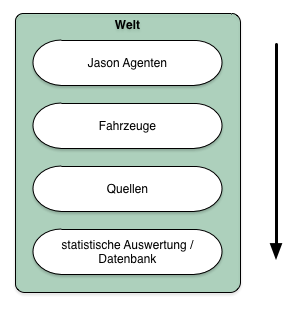
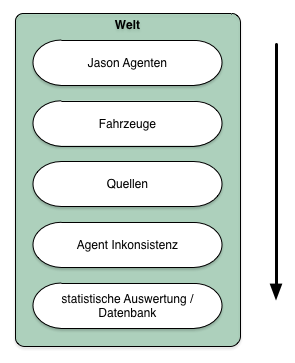
add translation / documentation

diff --git a/src/main/resources/web/documentation/user/en/program.md b/src/main/resources/web/documentation/user/en/program.md
@@ -1,0 +1,43 @@
+# Programfunctionality
+
+## System-Start
+
+The start if the program proceeds with different _stages_, which startup the different layers with its components. Each layer is a closed structure. The main
+startup part is proceed by the class _CBootstrap_, which is the centralized structure of the main events. A special feature is the preprocessing on the Java
+Runtime startup. The initial start of the program is definied by the class _CBoot_, which determinates the current Java version and vendor of the runtime.
+The startup is continued by the class _CMain_, which creates the whole program startup. The diagram shows the structure:
+
+![Startup](image/startup-diagram.png)
+
+
+### Start of the simulation environment
+
+The simulation environment ( _CSimulation_ with _CWorld_) is start every time. The simulation represent the core, which represents the main evaluation of
+all simulation objects. The world contains all objects, which are simulated with dependend data structures. The simulation core does not have a visual
+representation, because the simulation can be start without UI.
+
+### UI Start
+
+The UI usage is optional and will be loaded in dependency of the program commandline arguments. The UI consists of tabs within the Java application and the
+HTML representation. The tabs ( _Main_ and _OSM_ ) are internal Java components, which are processed directly by the simulation core. The view within the tab
+_Main_ shows the UI components in HTML of the user access. The default properties of the web server binding is set to the URL ```http://localhost:9876```. The
+URL can be changed by the commandline arguments, so the startup overwrite the default properties.
+
+
+## Configuration / Storing
+
+### Programparameter
+
+The program can use initial parameter, which affects the startup process. All parameters with a short description can be shown with the parameter ```--help```.
+
+
+### Storing
+
+The default location of the data is the home directory of the user with the subdirectory ```.mecsim```. Within this directory exists the structure:
+
+* the file```config.json``` contains all settings of the program
+* the directory ```graphs``` contains the graph data of the simulation ([GraphHopper](https://graphhopper.com/))
+* the directory ```jar``` can be used to store arbitrary [[JAR (file format)|JAR]], which are loaded automatically at startup e.g. database driver
+* the subdirectory ```mas``` contains all script file of agents
+* a [[Cache (computing)|cache]] of the map visualization is stored within the directory ```tile.openstreetmap.org```
+* own HTML documents can be stored within the directory ```www``` and the document-root file must be named ```index.htm```

diff --git a/src/main/resources/web/documentation/user/de/programm.md b/src/main/resources/web/documentation/user/de/programm.md
@@ -20,8 +20,8 @@ direkte visuelle Repräsentation, so dass die Simulation auch ohne UI gestartet 
 
 ### Start der UI
 
-Die UI ist optional und wir somit in Abhängigkeit der Programmübergabe-Parameter geladen. Die UI besteht einmal aus den Tabs innerhalb der Java Anwendung und
-der HTMl darstellung. Die Tabs ( _Main_ und _OSM_ ) sind die internen Java-Komponenten die direkt durch den Simulationskern angesprochen werden können. Die
+Die UI ist optional und wird somit in Abhängigkeit der Programmübergabe-Parameter geladen. Die UI besteht einmal aus den Tabs innerhalb der Java Anwendung und
+der HTMl Darstellung. Die Tabs ( _Main_ und _OSM_ ) sind die internen Java-Komponenten die direkt durch den Simulationskern angesprochen werden können. Die
 Darstellung innerhalb des Tabs _Main_ stellt für den Benutzer die Eingabemasken mittels HTML dar. Die Default-Einstellungen für das Binden des Webservers
 ist die URL ```http://localhost:9876``` vorgesehen. Über die Programmparameter kann diese Adresse beim Start überschrieben werden.
 
@@ -44,8 +44,3 @@ Der Defaultspeicherort der Daten liegt im Homeverzeichnis der Users im Unterverz
 * das Unterverzeichnis ```mas``` beinhaltet alle Scriptdateien der Agenten
 * als [[Cache]] der visuelle Kacheldarstellung wird das Verzeichnis ```tile.openstreetmap.org``` verwendet
 * um eigene HTML Inhalte abzulegen kann das Verzeichnis ```www``` benutzt werden, wobei die Dokument-Root-Datei ```index.htm``` lauten muss
-
-
-
-
-

diff --git a/src/main/resources/web/documentation/user/en/world.md b/src/main/resources/web/documentation/user/en/world.md
@@ -1,0 +1,35 @@
+# World
+
+## Layout
+
+The world is based on a _layer structure_ ([[manifold]]), so much that each layer is defined like an _autonomously structure_ ([[topological space]]).
+Each layer can contains simulation objects, which are run by the simulation core. All objects of a layer will be processed before the next layer is taken.
+The layer structure is ordered, which defines a deterministic ordering of evaluation. The diagram shows the structure:
+
+![World Structure](image/world.png)
+
+The world will be processed from top to bottom (lower index to higher index). The default behaviour of the evaluation process is first the _Jason Agents, cars,
+waypoints / sources, inconsistency_ and at the end _statistics evaluation with transfer to database_.
+
+
+## Traffic Model
+
+The simulation supports the [[Nagel–Schreckenberg model]] to simulation the traffic in two different characteristics:
+
+* an additional model, which defines individually acceleration- and decceleration at each car
+* an modified additional model, which processes cars, that are handle by agents, in this case, that the agent has got the full surveillance about the car
+(this model is set by default
+
+### Traffic Network Sampling
+
+
+
+
+### Time Sampling
+
+ 
+ 
+ 
+ 
+## Perception of [Jason Agenten](jason.md)
+ 

diff --git a/src/main/resources/web/documentation/user/de/welt.md b/src/main/resources/web/documentation/user/de/welt.md
@@ -5,12 +5,13 @@
 Die Welt ist als _Schichtstruktur_ ([[Mannigfaltigkeit]]) aufgebaut, so dass jede Schicht als _eigenständige Struktur_ ([[Topologischer Raum]]) aufgefasst werden
 kann. Jede Schicht der Welt kann Simulationsobjekte enthalten, die bei Ausführung durch den Simulationskern ausgeführt werden. Es werden alle Objekte pro Schicht
 verarbeitet, bevor die nächste Schicht bearbeitet wird. Die Schichten besitzen eine festgelegte Ordnung, in welcher Reihenfolge sie abgearbeitet werden. Das
-nachfolgende Diagramm zeigt die den grundlegenden Aufbau.
+nachfolgende Diagramm zeigt die den grundlegenden Aufbau:
 
 ![Weltaufbau](image/welt.png)
 
 Die Welt wird bildlich von _oben nach unten_ berechnet, d.h. von der Schicht mit dem kleinsten Index zu der Schicht mit dem größten. Als Standart-Verhalten
-werden zuerst die _Jason Agenten, Fahrzeuge, Wegpunkte_ und abschließend _statische Auswertung mit Transfer in eine Datenbank_ ausgeführt.
+werden zuerst die _Jason Agenten, Fahrzeuge, Wegpunkte / Quellen, Inkonsistenzen_ und abschließend _statistische Auswertung mit Transfer in eine Datenbank_
+ausgeführt.
 
 
 ## Verkehrsmodell

diff --git a/src/main/resources/web/documentation/user/en/index.md b/src/main/resources/web/documentation/user/en/index.md
@@ -1,7 +1,13 @@
 # Help
 
- * [GUI Specification](gui.md)
- * [Functionality](function.md)
- * [Vehicle Sources](sources.md)
- * [Agents with Jason](jason.md)
+## Basic Functionality
+
+ * [Programinformation](program.md)
+ * [GUI Description](gui.md)
  
+ 
+## Simulation
+ 
+ * [World](world.md)
+ * [Agents with Jason](jason.md)
+
